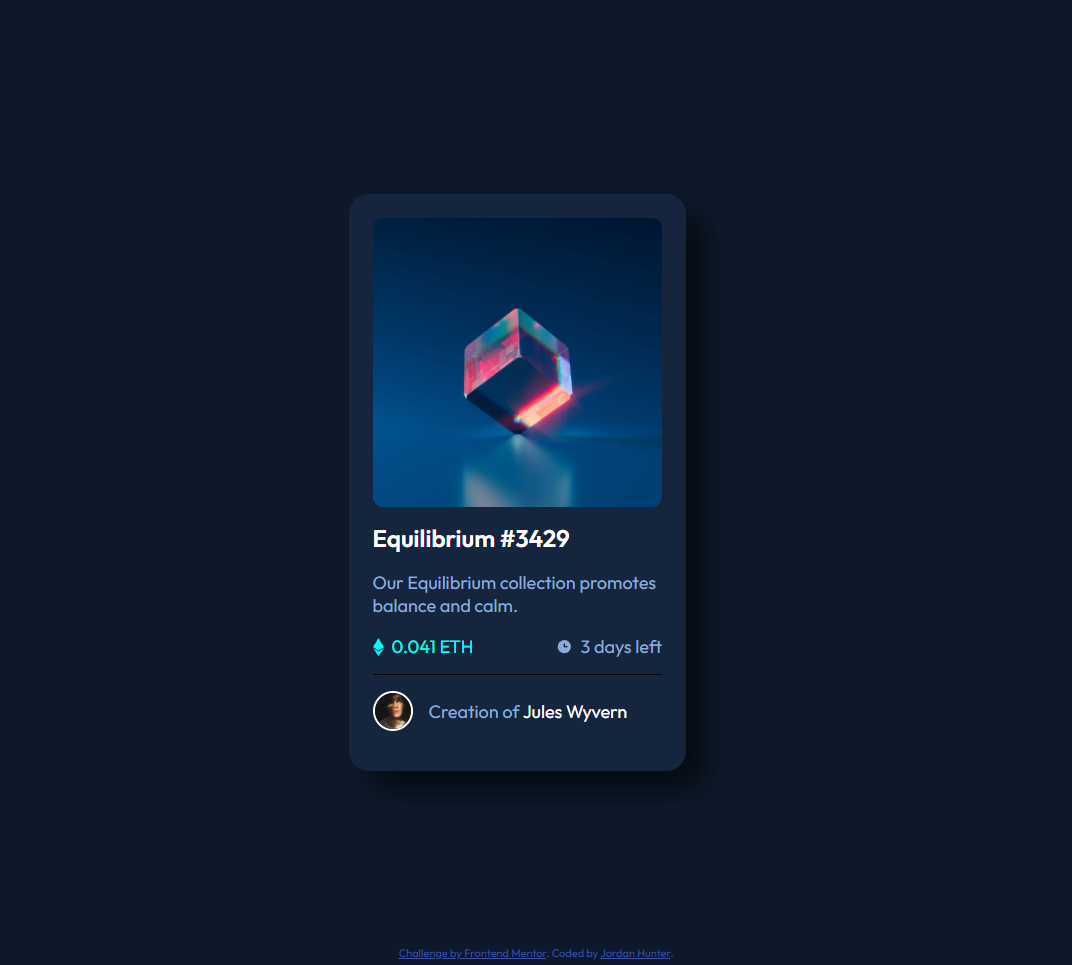
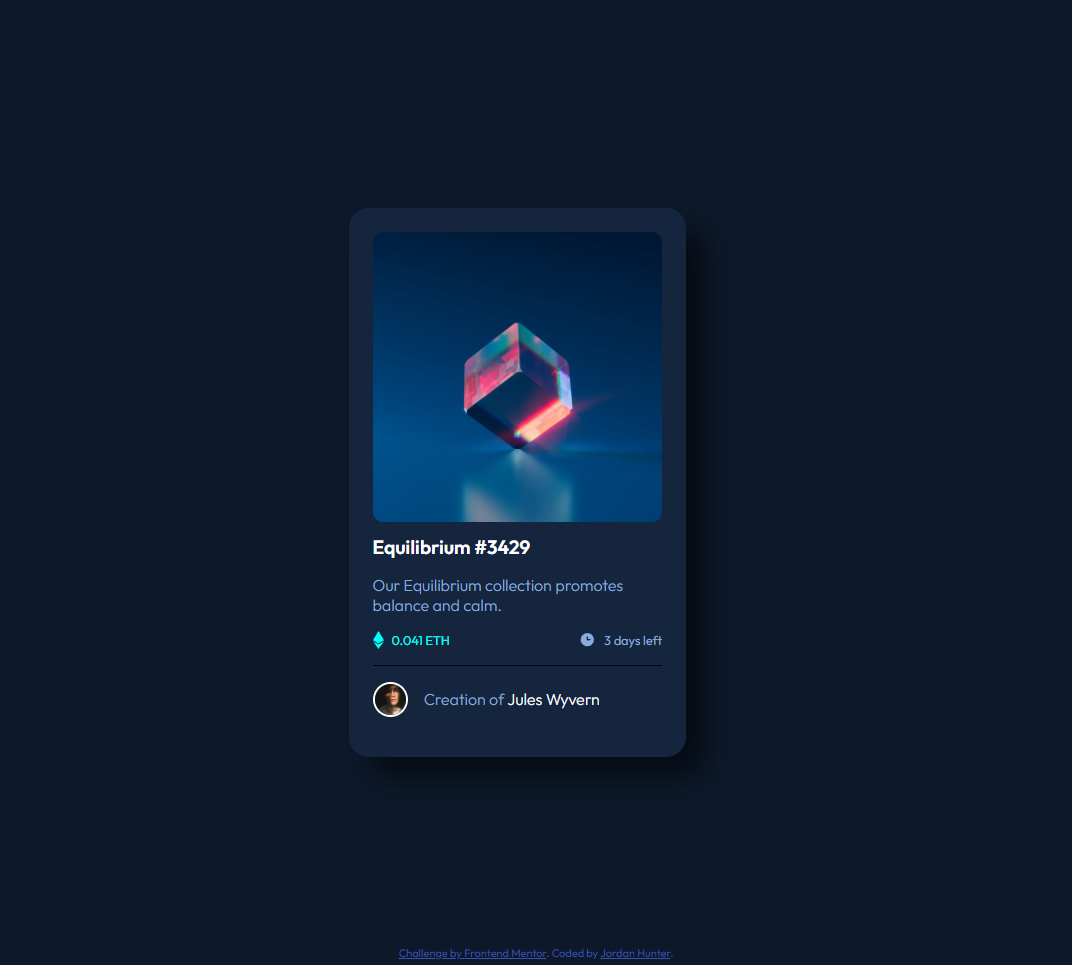
Refined element spacing

Changed region(s): [[0.3386, 0.3109, 0.6465, 0.8083], [0.5233, 0.6528, 0.6157, 0.6839]]

diff --git a/nft-preview-card-component-main/style.css b/nft-preview-card-component-main/style.css
@@ -63,7 +63,8 @@ body {
 .card__title {
   color: var(--White);
   font-weight: 600;
-  font-size: 1.2rem;
+  font-size: 1.3rem;
+  padding-top: 0.6rem;
 }
 
 .card__text {
@@ -75,8 +76,8 @@ body {
 .card__stats {
   display: flex;
   justify-content: space-between;
-  font-size: 0.8rem;
-  padding-bottom: 1rem;
+  font-size: 0.9rem;
+  padding-bottom: 1.4rem;
   border-bottom: 1px groove var(--line);
 }
 
